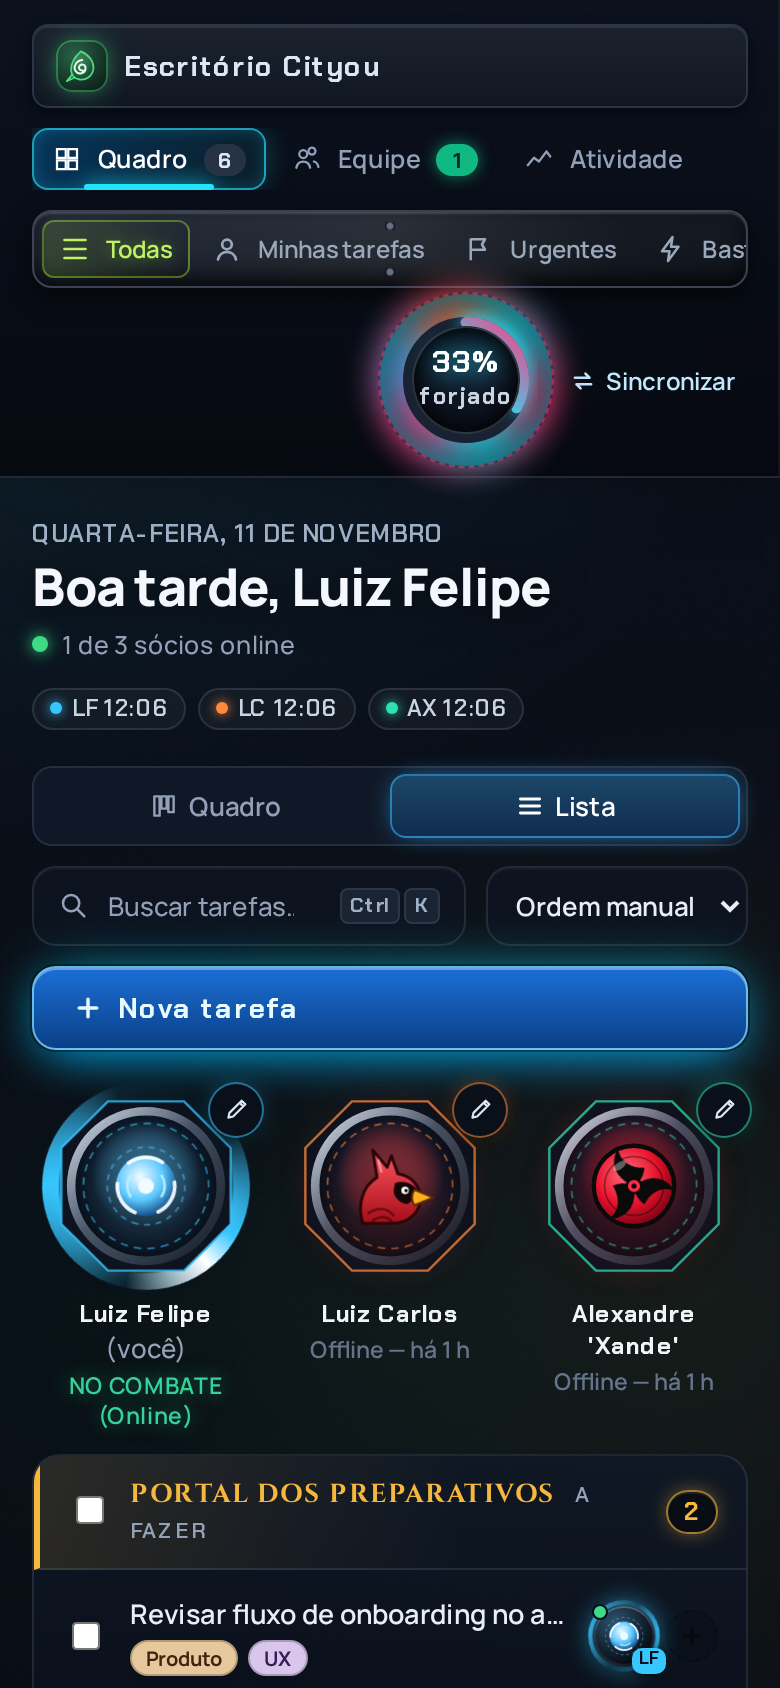
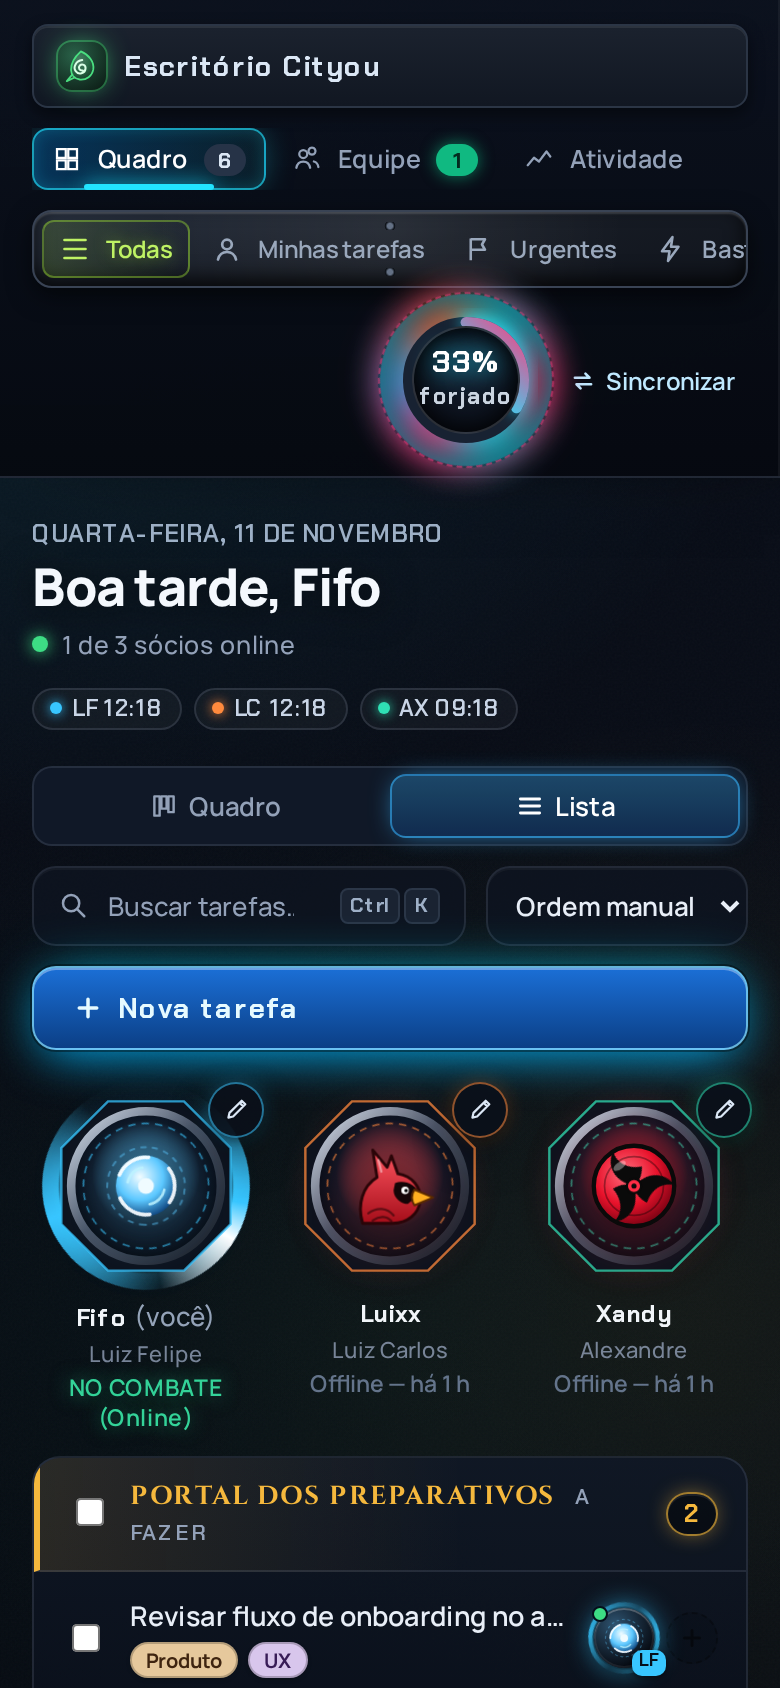
Apelidos Fifo, Luixx e Xandy; cidades e fusos padrão do time
- Rótulos com apelido e nome completo; iniciais/ids mantidos (LF, LC, AX)
- Rio de Janeiro e Brasília (America/Sao_Paulo), Texas, EUA (America/Chicago)
- Migração dos padrões antigos sem sobrescrever o que o usuário editou

diff --git a/src/composables/useBoard.js b/src/composables/useBoard.js
@@ -125,9 +125,9 @@ const selectedIds = ref([])
 const lastDeleted = ref(null)
 
 const partners = ref([
-  { id: 'luiz-felipe', name: 'LUIZ FELIPE', initials: 'LF', isYou: true, online: true, emblem: 'bolt', statusText: 'NO COMBATE (Online)' },
-  { id: 'luiz-carlos', name: 'LUIZ CARLOS', initials: 'LC', isYou: false, online: false, emblem: 'shield', statusText: 'Offline — há 1 h' },
-  { id: 'alexandre', name: "ALEXANDRE 'XANDE'", initials: 'AX', isYou: false, online: false, emblem: 'star', statusText: 'Offline — há 1 h' }
+  { id: 'luiz-felipe', name: 'FIFO', fullName: 'Luiz Felipe', initials: 'LF', isYou: true, online: true, emblem: 'bolt', statusText: 'NO COMBATE (Online)' },
+  { id: 'luiz-carlos', name: 'LUIXX', fullName: 'Luiz Carlos', initials: 'LC', isYou: false, online: false, emblem: 'shield', statusText: 'Offline — há 1 h' },
+  { id: 'alexandre', name: 'XANDY', fullName: 'Alexandre', initials: 'AX', isYou: false, online: false, emblem: 'star', statusText: 'Offline — há 1 h' }
 ])
 
 // ============ COLABORAÇÃO À DISTÂNCIA (offline, localStorage) ============
@@ -158,8 +158,18 @@ function validTz(tz) {
   if (typeof tz !== 'string' || !tz) return false
   try { new Intl.DateTimeFormat('en-US', { timeZone: tz }); return true } catch { return false }
 }
+// Padrões de cada sócio (v2). Ids/iniciais não mudam, só os rótulos e locais.
+export const NICKNAMES = { LF: 'Fifo', LC: 'Luixx', AX: 'Xandy' }
+export const FULL_NAMES = { LF: 'Luiz Felipe', LC: 'Luiz Carlos', AX: 'Alexandre' }
+const TEAM_DEFAULTS_VERSION = 2
+const TEAM_DEFAULTS = {
+  LF: { city: 'Rio de Janeiro', timezone: 'America/Sao_Paulo' },
+  LC: { city: 'Brasília', timezone: 'America/Sao_Paulo' },
+  AX: { city: 'Texas, EUA', timezone: 'America/Chicago' }
+}
 function defaultCollab(initials) {
-  return { city: '', timezone: DEFAULT_TZ, workStart: 9, workEnd: 18, checkin: null }
+  const d = TEAM_DEFAULTS[initials] || { city: '', timezone: DEFAULT_TZ }
+  return { city: d.city, timezone: d.timezone, workStart: 9, workEnd: 18, checkin: null }
 }
 function clampHour(n, d) { n = Number(n); return Number.isFinite(n) ? Math.min(24, Math.max(0, Math.round(n))) : d }
 function normalizeCollabPartner(raw, initials) {
@@ -201,16 +211,34 @@ function normalizeActivity(a) {
 function normalizeCollab(raw) {
   const src = raw && typeof raw === 'object' ? raw : {}
   const team = {}
-  for (const ini of PARTNER_INITIALS) team[ini] = normalizeCollabPartner(src.team?.[ini], ini)
+  const oldDefaults = !(src.defaultsVersion >= TEAM_DEFAULTS_VERSION)
+  for (const ini of PARTNER_INITIALS) {
+    const m = normalizeCollabPartner(src.team?.[ini], ini)
+    // Migração v1 -> v2: a v1 tinha cidade vazia e fuso de Brasília para todos.
+    // Só troca o que continua no padrão antigo; o que o usuário editou fica.
+    if (oldDefaults && src.team?.[ini]) {
+      const d = TEAM_DEFAULTS[ini]
+      const cityUntouched = !m.city
+      if (cityUntouched) m.city = d.city
+      if (cityUntouched && m.timezone === DEFAULT_TZ) m.timezone = d.timezone
+    }
+    team[ini] = m
+  }
   return {
+    defaultsVersion: TEAM_DEFAULTS_VERSION,
     team,
     decisions: Array.isArray(src.decisions) ? src.decisions.map(normalizeDecision).filter(Boolean).slice(0, 200) : [],
     activities: Array.isArray(src.activities) ? src.activities.map(normalizeActivity).filter(Boolean).slice(0, 150) : []
   }
 }
 function loadCollab() {
-  try { return normalizeCollab(JSON.parse(localStorage.getItem(COLLAB_KEY) || 'null')) }
-  catch { return normalizeCollab(null) }
+  try {
+    const raw = JSON.parse(localStorage.getItem(COLLAB_KEY) || 'null')
+    const out = normalizeCollab(raw)
+    // grava já a migração de padrões, sem esperar a próxima edição
+    if (raw && !(raw.defaultsVersion >= TEAM_DEFAULTS_VERSION)) localStorage.setItem(COLLAB_KEY, JSON.stringify(out))
+    return out
+  } catch { return normalizeCollab(null) }
 }
 
 const collab = reactive(loadCollab())
@@ -228,7 +256,7 @@ watch(collab, (val) => {
 watch(boardSubView, (v) => { try { localStorage.setItem(VIEW_KEY, v) } catch { /* modo privado */ } })
 
 function initialsName(ini) {
-  return { LF: 'Luiz Felipe', LC: 'Luiz Carlos', AX: 'Xande' }[ini] || ini
+  return NICKNAMES[ini] || ini
 }
 function logActivity(type, text, taskId = null, actor = CURRENT_USER) {
   collab.activities.unshift({ id: uid(), type, actor, text: String(text).slice(0, 220), taskId, createdAt: Date.now() })
@@ -484,6 +512,7 @@ export function useBoard() {
     if (data.collab) {
       const c = normalizeCollab(data.collab)
       Object.assign(collab.team, c.team)
+      collab.defaultsVersion = c.defaultsVersion
       collab.decisions.splice(0, collab.decisions.length, ...c.decisions)
       collab.activities.splice(0, collab.activities.length, ...c.activities)
     }
@@ -509,4 +538,5 @@ export function useBoard() {
   }
 }
 
+export function fullNameOf(ini) { return FULL_NAMES[ini] || '' }
 export { partners, collab, initialsName, PARTNER_INITIALS }

diff --git a/src/components/collab/TeamHub.vue b/src/components/collab/TeamHub.vue
@@ -55,7 +55,7 @@
         <header class="member-head">
           <MemberAvatar :initials="p.initials" size="md" :task-id="null" />
           <div class="member-id">
-            <h3>{{ short(p) }} <span v-if="p.isYou" class="you-tag">(você)</span></h3>
+            <h3>{{ short(p) }} <span class="full-name">{{ fullNameOf(p.initials) }}</span> <span v-if="p.isYou" class="you-tag">(você)</span></h3>
             <span class="member-local">{{ formatTimeInZone(team[p.initials].timezone, now) }} · {{ team[p.initials].city || cityFromTz(team[p.initials].timezone) }}</span>
           </div>
           <span class="member-state" :class="stateOf(p.initials).cls">{{ stateOf(p.initials).label }}</span>
@@ -146,7 +146,7 @@
 <script setup>
 import { computed, reactive, nextTick, onBeforeUnmount } from 'vue'
 import MemberAvatar from '../insignia/MemberAvatar.vue'
-import { useBoard, TIMEZONE_OPTIONS, formatTimeInZone, tzOffsetHours, isWorking, overlapUtcHours, CURRENT_USER } from '../../composables/useBoard'
+import { useBoard, initialsName, fullNameOf, TIMEZONE_OPTIONS, formatTimeInZone, tzOffsetHours, isWorking, overlapUtcHours, CURRENT_USER } from '../../composables/useBoard'
 import { memberColor } from '../../composables/useInsignias'
 import { useNow, relativeTime, isToday } from '../../composables/useNow'
 import { showToast } from '../../composables/useToast'
@@ -158,7 +158,7 @@ const { now, release } = useNow()
 onBeforeUnmount(release)
 const team = collab.team
 
-const short = (p) => ({ LF: 'Luiz Felipe', LC: 'Luiz Carlos', AX: 'Xande' }[p.initials] || p.name)
+const short = (p) => initialsName(p.initials)
 const viewerTz = computed(() => team[CURRENT_USER]?.timezone || 'America/Sao_Paulo')
 const viewerOffset = computed(() => tzOffsetHours(viewerTz.value, now.value))
 
@@ -231,7 +231,7 @@ function submitCheckin(ini) {
   }
   saveCheckin(ini, d)
   editing[ini] = false
-  showToast(`Check-in de ${({ LF: 'Luiz Felipe', LC: 'Luiz Carlos', AX: 'Xande' })[ini]} salvo`, { tone: 'success' })
+  showToast(`Check-in de ${initialsName(ini)} salvo`, { tone: 'success' })
 }
 
 function batonsOf(ini) { return tasks.value.filter(t => t.status !== 'done' && t.handoff?.holder === ini) }

diff --git a/src/components/board/BoardSidebar.vue b/src/components/board/BoardSidebar.vue
@@ -68,7 +68,7 @@
       >
         <MemberAvatar :initials="p.initials" size="sm" :interactive="false" :show-initials="false" />
         <span class="team-text">
-          <span class="team-name">{{ tc(p.name).split(' ')[0] === 'Alexandre' ? 'Xande' : tc(p.name) }}</span>
+          <span class="team-name">{{ tc(p.name) }}</span>
           <span class="team-ins">{{ insigniaOf(p.initials).name }}</span>
         </span>
         <svg class="team-edit" viewBox="0 0 20 20" aria-hidden="true"><path d="M13.6 3.6l2.8 2.8L7 15.8l-3.6.8.8-3.6z" fill="none" stroke="currentColor" stroke-width="1.7" stroke-linejoin="round" /></svg>

diff --git a/src/components/board/TaskDetailDrawer.vue b/src/components/board/TaskDetailDrawer.vue
@@ -42,7 +42,7 @@
               <div class="drawer-assignees">
                 <span v-for="ini in task.assignees" :key="ini" class="drawer-assignee">
                   <MemberAvatar :initials="ini" size="sm" :interactive="false" />
-                  {{ partnerByInitials[ini]?.name || ini }}
+                  {{ partnerByInitials[ini] ? partnerByInitials[ini].name.charAt(0) + partnerByInitials[ini].name.slice(1).toLowerCase() : ini }}
                 </span>
                 <span v-if="!task.assignees.length" class="drawer-value">Ninguém atribuído</span>
               </div>

diff --git a/src/views/BoardView.vue b/src/views/BoardView.vue
@@ -19,7 +19,7 @@
       <header class="board-header">
         <div class="header-left">
           <div class="header-date">{{ headerDate }}</div>
-          <h1 class="header-greeting">{{ greeting }}, Luiz Felipe</h1>
+          <h1 class="header-greeting">{{ greeting }}, Fifo</h1>
           <div class="header-online-status">
             <span class="dot-online" aria-hidden="true"></span>
             {{ onlineCount }} de {{ partners.length }} sócios online

diff --git a/src/components/board/MemberMedallion.vue b/src/components/board/MemberMedallion.vue
@@ -31,6 +31,7 @@
       </span>
       <span class="medallion-info">
         <span class="medallion-name">{{ displayName }} <span v-if="partner.isYou" class="you-tag">(você)</span></span>
+        <span v-if="partner.fullName" class="medallion-fullname">{{ partner.fullName }}</span>
         <span class="medallion-status" :class="{ online: partner.online }">{{ partner.statusText }}</span>
       </span>
     </button>

diff --git a/src/assets/collab.css b/src/assets/collab.css
@@ -419,3 +419,5 @@ button.feed-row:hover { background: rgba(56, 182, 255, .06); }
   .header-left { min-width: 0; width: 100%; }
   .sort-box { flex: 0 0 auto; }
 }
+.member-id .full-name { color: var(--ink-dim); font-weight: 500; font-size: 12px; }
+.medallion-fullname { display: block; color: var(--ink-dim); font: 500 11px var(--font-body); opacity: .8; }

diff --git a/CHANGES.md b/CHANGES.md
@@ -1,3 +1,11 @@
+# Escritório Cityou — v5.1 (apelidos e locais do time)
+
+- Apelidos na interface: **Fifo** (Luiz Felipe), **Luixx** (Luiz Carlos) e **Xandy** (Alexandre), com o nome completo como texto secundário. Iniciais e ids (LF, LC, AX) não mudaram, então tarefas, insígnias e filtros salvos continuam ligados.
+- Locais padrão: Fifo no Rio de Janeiro (America/Sao_Paulo), Luixx em Brasília (America/Sao_Paulo) e Xandy no Texas, EUA (America/Chicago), todos 9:00–18:00 no horário local. Hoje (Chicago em CST, UTC−6) a janela em comum é de 6 h, das 12:00 às 18:00 em Brasília; com o horário de verão de Chicago (CDT, UTC−5) passa a 7 h, das 11:00 às 18:00. O cálculo usa `Intl` na data atual.
+- Migração: os dados de equipe da v5 (cidade vazia e fuso de Brasília para todos) recebem os novos padrões. Os valores que o usuário já editou ficam como estão.
+
+---
+
 # Escritório Cityou — v5 (abas conectadas + trabalho à distância)
 
 ## Novidades
